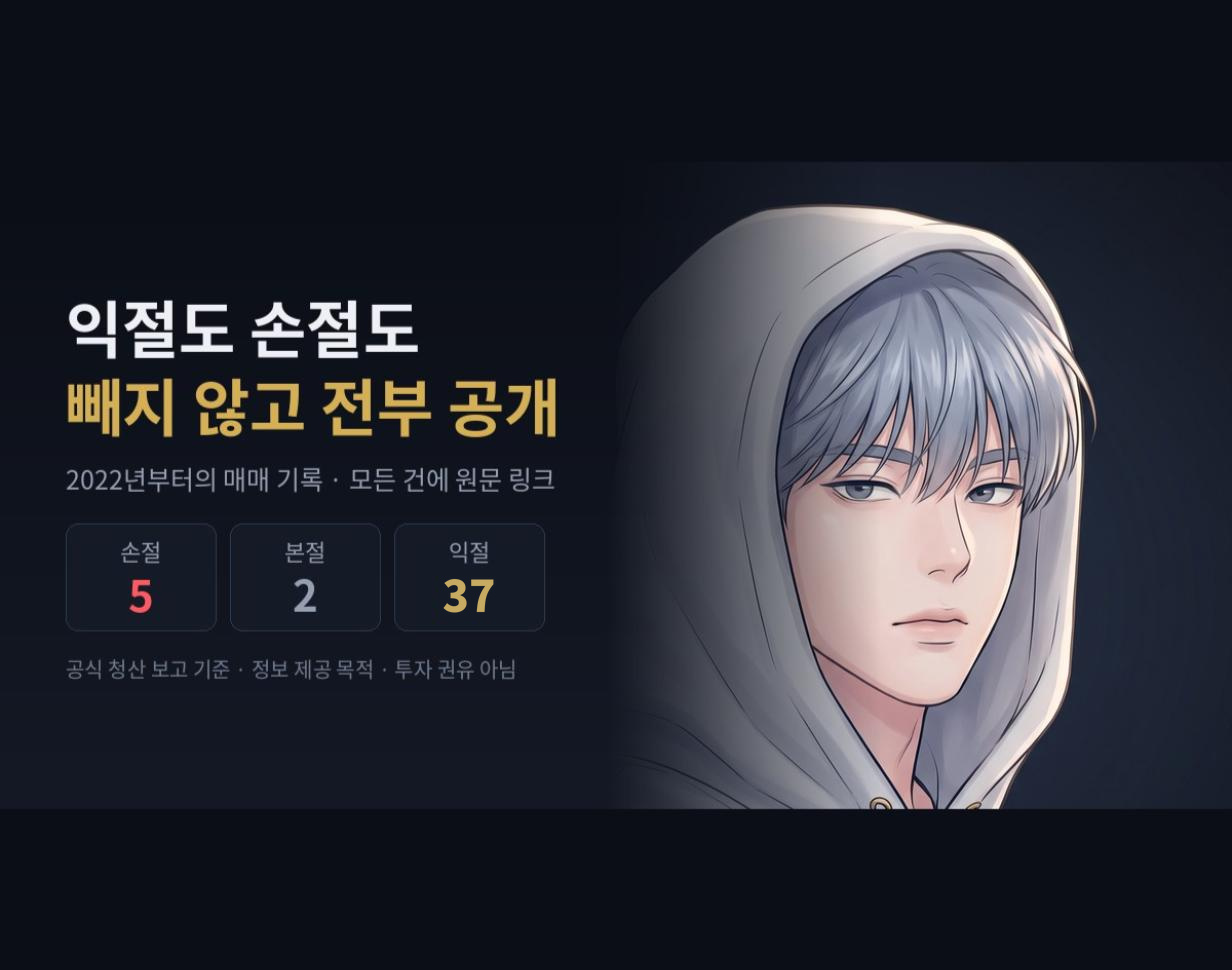
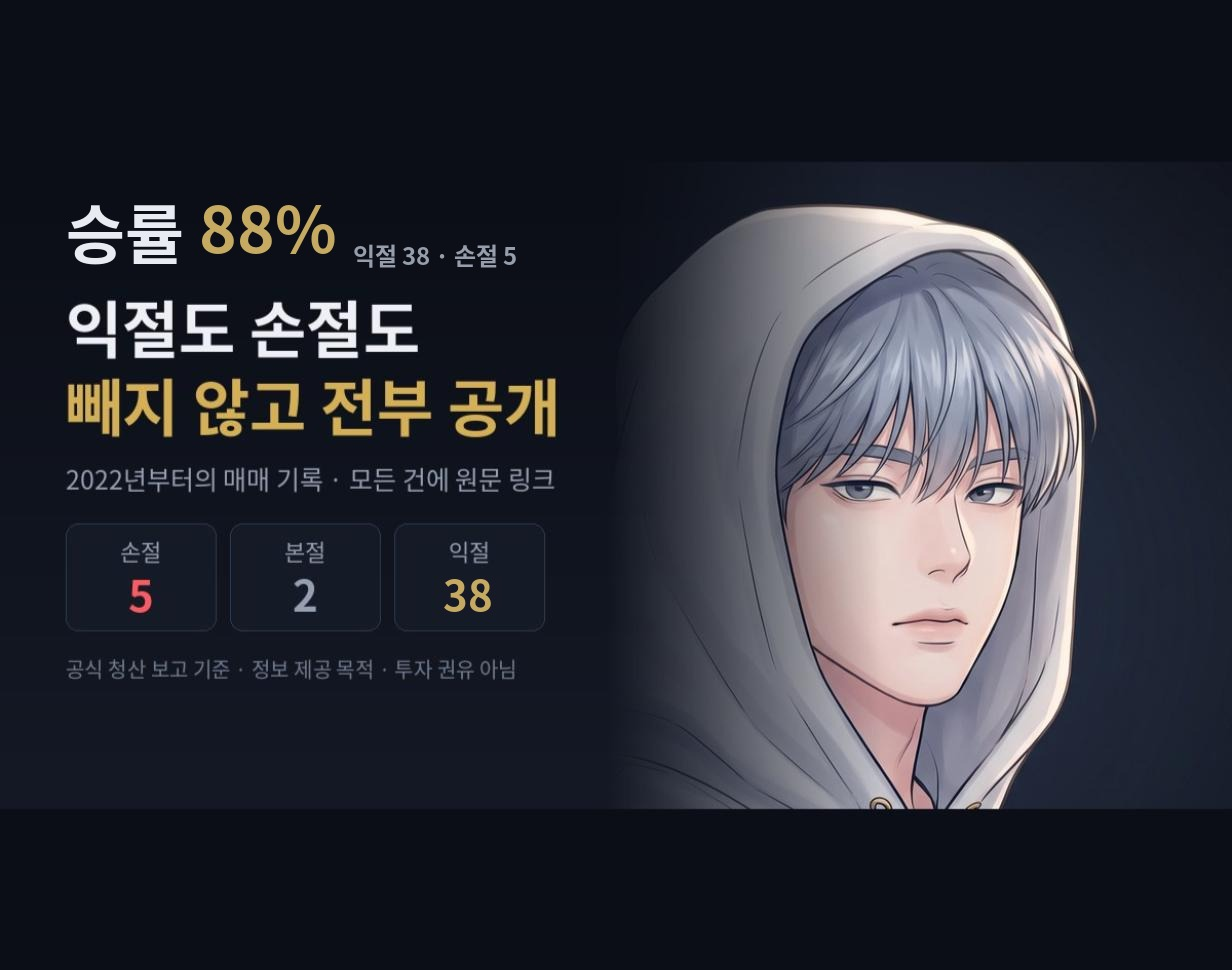
v48: 이번 주 KORU 제외·JCT 숏 두 자리(15자리 93.3%) · 연구소 BTC 롱 1차 익절 +86.04%(26건 · 익절 38) · 공유 이미지 승률 88%

Changed region(s): [[0.0617, 0.1856, 0.4318, 0.2784], [0.3701, 0.5876, 0.401, 0.6495]]

diff --git a/index.html b/index.html
@@ -5,14 +5,14 @@
 <meta name="viewport" content="width=device-width, initial-scale=1, viewport-fit=cover">
 <meta name="theme-color" content="#04070a">
 <title>춘배 매매 성적표</title>
-<meta name="description" content="승률 88% — 익절 37·손절 5 전부 공개. 회원 수익 인증 623건, 모든 기록에 텔레그램 원문 링크. 채널·채팅방·일기장 모두 무료.">
+<meta name="description" content="승률 88% — 익절 38·손절 5 전부 공개. 회원 수익 인증 623건, 모든 기록에 텔레그램 원문 링크. 채널·채팅방·일기장 모두 무료.">
   <meta property="og:type" content="website">
   <meta property="og:url" content="https://chunbae7469-a11y.github.io/chunbae-record/">
   <meta property="og:site_name" content="춘배 매매 성적표">
   <meta property="og:locale" content="ko_KR">
   <meta property="og:title" content="춘배 매매 성적표 — 익절도 손절도 전부 공개">
-  <meta property="og:description" content="2022년부터의 매매 기록. 승률 집계 기준(2024-01-23 ~ 2026-11-08) 손절 5건·본절 2건·익절 37건, 회원 수익 인증 623건. 모든 건에 텔레그램 원문 링크. 정보 제공 목적 · 투자 권유 아님.">
-  <meta property="og:image" content="https://chunbae7469-a11y.github.io/chunbae-record/og-chunbae.jpg?v=35">
+  <meta property="og:description" content="2022년부터의 매매 기록. 승률 집계 기준(2024-01-23 ~ 2026-11-08) 손절 5건·본절 2건·익절 38건, 회원 수익 인증 623건. 모든 건에 텔레그램 원문 링크. 정보 제공 목적 · 투자 권유 아님.">
+  <meta property="og:image" content="https://chunbae7469-a11y.github.io/chunbae-record/og-chunbae.jpg?v=36">
   <meta property="og:image:width" content="1232">
   <meta property="og:image:height" content="970">
   <meta name="twitter:card" content="summary_large_image">
@@ -240,8 +240,8 @@ body.has-dock .wrap{padding-bottom:96px}
 
 <div class="head" id="s-top">
   <div class="rate"><span class="big num">88%</span><span class="lb">승률</span>
-    <span class="cap">— 연구소 채널에 올린 매매 기준 (<span class="nw">2024-01-23 ~ 2026-11-08</span> 집계 · 익절 37 · 손절 5 · 본절 2)</span></div>
-  <h1>익절 <em>37</em>번, 손절 <u>5</u>번.<br>번 것도 잃은 것도 전부 여기 있습니다.</h1>
+    <span class="cap">— 연구소 채널에 올린 매매 기준 (<span class="nw">2024-01-23 ~ 2026-11-08</span> 집계 · 익절 38 · 손절 5 · 본절 2)</span></div>
+  <h1>익절 <em>38</em>번, 손절 <u>5</u>번.<br>번 것도 잃은 것도 전부 여기 있습니다.</h1>
   <p>모든 기록에 텔레그램 원문 링크가 붙고, 실시간 손익 카드와 사진 3,659장 이상이 채팅방에 그대로 쌓여 있습니다.</p>
   <div class="hcta" id="hero-cta">
     <a class="b1" href="https://t.me/chunbae74" target="_blank" rel="noopener">무료 채팅방 입장&nbsp;→</a>
@@ -266,12 +266,16 @@ body.has-dock .wrap{padding-bottom:96px}
 </div>
 <a class="wkall" href="#s-certs">회원 인증 623건 전체 보기&nbsp;↓</a>
 
-<div class="lbl"><h2>2026년 청산별 손익 — 25건</h2><span>표기 수익률 기준 · 막대 높이는 크기 비교용(비례 아님)</span></div>
-<div class="chartbox"><svg viewBox="0 0 694 152" width="100%" xmlns="http://www.w3.org/2000/svg" role="img" aria-label="2026년 청산별 손익 막대"><line x1="0" y1="94" x2="694" y2="94" stroke="#1d2b33" stroke-width="1"/><rect x="6.2" y="94.0" width="15.3" height="21.4" fill="#38a4ff"><title>2026-02-04 · -36.65%</title></rect><text class="vl dn" x="13.9" y="118.4" font-size="8.5" fill="#8fa3ab" text-anchor="middle" dominant-baseline="hanging">-37%</text><text class="ax" x="13.9" y="146" font-size="7.5" fill="#6f838b" text-anchor="middle">02-04</text><rect x="34.0" y="92.0" width="15.3" height="2.0" fill="#7c8b92"><title>2026-03-17 · 본절 ±0</title></rect><text class="ax" x="41.6" y="146" font-size="7.5" fill="#6f838b" text-anchor="middle">03-17</text><rect x="61.8" y="43.5" width="15.3" height="50.5" fill="#ff4d5e"><title>2026-04-08 · +204.03%</title></rect><text class="vl" x="69.4" y="39.5" font-size="8.5" fill="#8fa3ab" text-anchor="middle">+204%</text><text class="ax" x="69.4" y="146" font-size="7.5" fill="#6f838b" text-anchor="middle">04-08</text><rect x="89.5" y="20.8" width="15.3" height="73.2" fill="#ff4d5e"><title>2026-05-04 · +428.66%</title></rect><text class="vl big" x="97.2" y="16.8" font-size="8.5" fill="#8fa3ab" text-anchor="middle">+429%</text><text class="ax" x="97.2" y="146" font-size="7.5" fill="#6f838b" text-anchor="middle">05-04</text><rect x="117.3" y="72.1" width="15.3" height="21.9" fill="#ff4d5e"><title>2026-05-08 · +38.47%</title></rect><text class="ax" x="124.9" y="146" font-size="7.5" fill="#6f838b" text-anchor="middle">05-08</text><rect x="145.0" y="63.1" width="15.3" height="30.9" fill="#ff4d5e"><title>2026-05-13 · +76.19%</title></rect><text class="vl" x="152.7" y="59.1" font-size="8.5" fill="#8fa3ab" text-anchor="middle">+76%</text><text class="ax" x="152.7" y="146" font-size="7.5" fill="#6f838b" text-anchor="middle">05-13</text><rect x="172.8" y="43.0" width="15.3" height="51.0" fill="#ff4d5e"><title>2026-05-17 · +207.80%</title></rect><text class="vl big" x="180.4" y="39.0" font-size="8.5" fill="#8fa3ab" text-anchor="middle">+208%</text><text class="ax" x="180.4" y="146" font-size="7.5" fill="#6f838b" text-anchor="middle">05-17</text><rect x="200.6" y="94.0" width="15.3" height="23.2" fill="#38a4ff"><title>2026-06-01 · -43.09%</title></rect><text class="vl dn" x="208.2" y="120.2" font-size="8.5" fill="#8fa3ab" text-anchor="middle" dominant-baseline="hanging">-43%</text><text class="ax" x="208.2" y="146" font-size="7.5" fill="#6f838b" text-anchor="middle">06-01</text><rect x="228.3" y="14.0" width="15.3" height="80.0" fill="#ff4d5e"><title>2026-06-04 · +512.23%</title></rect><text class="vl big" x="236.0" y="10.0" font-size="8.5" fill="#8fa3ab" text-anchor="middle">+512%</text><text class="ax" x="236.0" y="146" font-size="7.5" fill="#6f838b" text-anchor="middle">06-04</text><rect x="256.1" y="49.2" width="15.3" height="44.8" fill="#ff4d5e"><title>2026-07-05 · +160.39%</title></rect><text class="vl" x="263.7" y="45.2" font-size="8.5" fill="#8fa3ab" text-anchor="middle">+160%</text><text class="ax" x="263.7" y="146" font-size="7.5" fill="#6f838b" text-anchor="middle">07-05</text><rect x="283.8" y="36.4" width="15.3" height="57.6" fill="#ff4d5e"><title>2026-07-16 · +265.73%</title></rect><text class="vl big" x="291.5" y="32.4" font-size="8.5" fill="#8fa3ab" text-anchor="middle">+266%</text><text class="ax" x="291.5" y="146" font-size="7.5" fill="#6f838b" text-anchor="middle">07-16</text><rect x="311.6" y="84.5" width="15.3" height="9.5" fill="#ff4d5e"><title>2026-08-11 · +7.21%</title></rect><text class="ax" x="319.2" y="146" font-size="7.5" fill="#6f838b" text-anchor="middle">08-11</text><rect x="339.4" y="82.1" width="15.3" height="11.9" fill="#ff4d5e"><title>2026-08-12 · +11.26%</title></rect><text class="ax" x="347.0" y="146" font-size="7.5" fill="#6f838b" text-anchor="middle">08-12</text><rect x="367.1" y="74.4" width="15.3" height="19.6" fill="#ff4d5e"><title>2026-08-12 · +30.73%</title></rect><text class="ax" x="374.8" y="146" font-size="7.5" fill="#6f838b" text-anchor="middle">08-12</text><rect x="394.9" y="29.2" width="15.3" height="64.8" fill="#ff4d5e"><title>2026-08-20 · +336.23%</title></rect><text class="vl big" x="402.5" y="25.2" font-size="8.5" fill="#8fa3ab" text-anchor="middle">+336%</text><text class="ax" x="402.5" y="146" font-size="7.5" fill="#6f838b" text-anchor="middle">08-20</text><rect x="422.6" y="77.4" width="15.3" height="16.6" fill="#ff4d5e"><title>2026-09-07 · +22% (원문 상승 표기)</title></rect><text class="ax" x="430.3" y="146" font-size="7.5" fill="#6f838b" text-anchor="middle">09-07</text><rect x="450.4" y="70.1" width="15.3" height="23.9" fill="#ff4d5e"><title>2026-09-08 · +45.70%</title></rect><text class="ax" x="458.0" y="146" font-size="7.5" fill="#6f838b" text-anchor="middle">09-08</text><rect x="478.2" y="73.5" width="15.3" height="20.5" fill="#ff4d5e"><title>2026-09-22 · +33.56%</title></rect><text class="ax" x="485.8" y="146" font-size="7.5" fill="#6f838b" text-anchor="middle">09-22</text><rect x="505.9" y="78.3" width="15.3" height="15.7" fill="#ff4d5e"><title>2026-09-22 · +19.82%</title></rect><text class="ax" x="513.6" y="146" font-size="7.5" fill="#6f838b" text-anchor="middle">09-22</text><rect x="533.7" y="71.1" width="15.3" height="22.9" fill="#ff4d5e"><title>2026-09-23 · +41.93% (한때)</title></rect><text class="ax" x="541.3" y="146" font-size="7.5" fill="#6f838b" text-anchor="middle">09-23</text><rect x="561.4" y="41.6" width="15.3" height="52.4" fill="#ff4d5e"><title>2026-09-24 · +220.13%</title></rect><text class="vl big" x="569.1" y="37.6" font-size="8.5" fill="#8fa3ab" text-anchor="middle">+220%</text><text class="ax" x="569.1" y="146" font-size="7.5" fill="#6f838b" text-anchor="middle">09-24</text><rect x="589.2" y="73.5" width="15.3" height="20.5" fill="#ff4d5e"><title>2026-09-24 · +33.57%</title></rect><text class="ax" x="596.8" y="146" font-size="7.5" fill="#6f838b" text-anchor="middle">09-24</text><rect x="617.0" y="75.6" width="15.3" height="18.4" fill="#ff4d5e"><title>2026-09-29 · +27.03%</title></rect><text class="ax" x="624.6" y="146" font-size="7.5" fill="#6f838b" text-anchor="middle">09-29</text><rect x="644.7" y="73.6" width="15.3" height="20.4" fill="#ff4d5e"><title>2026-10-02 · +33.39%</title></rect><text class="ax" x="652.4" y="146" font-size="7.5" fill="#6f838b" text-anchor="middle">10-02</text><rect x="672.5" y="64.2" width="15.3" height="29.8" fill="#ff4d5e"><title>2026-10-05 · +71% (한때 · 원문 '71% 넘게')</title></rect><text class="vl" x="680.1" y="60.2" font-size="8.5" fill="#8fa3ab" text-anchor="middle">+71%</text><text class="ax" x="680.1" y="146" font-size="7.5" fill="#6f838b" text-anchor="middle">10-05</text></svg><div class="chartcap"><span>2026-02-04</span><span>시간순 →</span><span>2026-10-05</span></div></div>
+<div class="lbl"><h2>2026년 청산별 손익 — 26건</h2><span>표기 수익률 기준 · 막대 높이는 크기 비교용(비례 아님)</span></div>
+<div class="chartbox"><svg viewBox="0 0 694 152" width="100%" xmlns="http://www.w3.org/2000/svg" role="img" aria-label="2026년 청산별 손익 막대"><line x1="0" y1="94" x2="694" y2="94" stroke="#1d2b33" stroke-width="1"/><rect x="6.0" y="94.0" width="14.7" height="21.4" fill="#38a4ff"><title>2026-02-04 · -36.65%</title></rect><text class="vl dn" x="13.4" y="118.4" font-size="8.5" fill="#8fa3ab" text-anchor="middle" dominant-baseline="hanging">-37%</text><text class="ax" x="13.4" y="146" font-size="7.5" fill="#6f838b" text-anchor="middle">02-04</text><rect x="32.7" y="92.0" width="14.7" height="2.0" fill="#7c8b92"><title>2026-03-17 · 본절 ±0</title></rect><text class="ax" x="40.0" y="146" font-size="7.5" fill="#6f838b" text-anchor="middle">03-17</text><rect x="59.4" y="43.5" width="14.7" height="50.5" fill="#ff4d5e"><title>2026-04-08 · +204.03%</title></rect><text class="vl" x="66.7" y="39.5" font-size="8.5" fill="#8fa3ab" text-anchor="middle">+204%</text><text class="ax" x="66.7" y="146" font-size="7.5" fill="#6f838b" text-anchor="middle">04-08</text><rect x="86.1" y="20.8" width="14.7" height="73.2" fill="#ff4d5e"><title>2026-05-04 · +428.66%</title></rect><text class="vl big" x="93.5" y="16.8" font-size="8.5" fill="#8fa3ab" text-anchor="middle">+429%</text><text class="ax" x="93.5" y="146" font-size="7.5" fill="#6f838b" text-anchor="middle">05-04</text><rect x="112.8" y="72.1" width="14.7" height="21.9" fill="#ff4d5e"><title>2026-05-08 · +38.47%</title></rect><text class="ax" x="120.1" y="146" font-size="7.5" fill="#6f838b" text-anchor="middle">05-08</text><rect x="139.4" y="63.1" width="14.7" height="30.9" fill="#ff4d5e"><title>2026-05-13 · +76.19%</title></rect><text class="vl" x="146.8" y="59.1" font-size="8.5" fill="#8fa3ab" text-anchor="middle">+76%</text><text class="ax" x="146.8" y="146" font-size="7.5" fill="#6f838b" text-anchor="middle">05-13</text><rect x="166.2" y="43.0" width="14.7" height="51.0" fill="#ff4d5e"><title>2026-05-17 · +207.80%</title></rect><text class="vl big" x="173.5" y="39.0" font-size="8.5" fill="#8fa3ab" text-anchor="middle">+208%</text><text class="ax" x="173.5" y="146" font-size="7.5" fill="#6f838b" text-anchor="middle">05-17</text><rect x="192.9" y="94.0" width="14.7" height="23.2" fill="#38a4ff"><title>2026-06-01 · -43.09%</title></rect><text class="vl dn" x="200.2" y="120.2" font-size="8.5" fill="#8fa3ab" text-anchor="middle" dominant-baseline="hanging">-43%</text><text class="ax" x="200.2" y="146" font-size="7.5" fill="#6f838b" text-anchor="middle">06-01</text><rect x="219.5" y="14.0" width="14.7" height="80.0" fill="#ff4d5e"><title>2026-06-04 · +512.23%</title></rect><text class="vl big" x="226.9" y="10.0" font-size="8.5" fill="#8fa3ab" text-anchor="middle">+512%</text><text class="ax" x="226.9" y="146" font-size="7.5" fill="#6f838b" text-anchor="middle">06-04</text><rect x="246.3" y="49.2" width="14.7" height="44.8" fill="#ff4d5e"><title>2026-07-05 · +160.39%</title></rect><text class="vl" x="253.6" y="45.2" font-size="8.5" fill="#8fa3ab" text-anchor="middle">+160%</text><text class="ax" x="253.6" y="146" font-size="7.5" fill="#6f838b" text-anchor="middle">07-05</text><rect x="272.9" y="36.4" width="14.7" height="57.6" fill="#ff4d5e"><title>2026-07-16 · +265.73%</title></rect><text class="vl big" x="280.3" y="32.4" font-size="8.5" fill="#8fa3ab" text-anchor="middle">+266%</text><text class="ax" x="280.3" y="146" font-size="7.5" fill="#6f838b" text-anchor="middle">07-16</text><rect x="299.6" y="84.5" width="14.7" height="9.5" fill="#ff4d5e"><title>2026-08-11 · +7.21%</title></rect><text class="ax" x="306.9" y="146" font-size="7.5" fill="#6f838b" text-anchor="middle">08-11</text><rect x="326.3" y="82.1" width="14.7" height="11.9" fill="#ff4d5e"><title>2026-08-12 · +11.26%</title></rect><text class="ax" x="333.7" y="146" font-size="7.5" fill="#6f838b" text-anchor="middle">08-12</text><rect x="353.0" y="74.4" width="14.7" height="19.6" fill="#ff4d5e"><title>2026-08-12 · +30.73%</title></rect><text class="ax" x="360.4" y="146" font-size="7.5" fill="#6f838b" text-anchor="middle">08-12</text><rect x="379.7" y="29.2" width="14.7" height="64.8" fill="#ff4d5e"><title>2026-08-20 · +336.23%</title></rect><text class="vl big" x="387.0" y="25.2" font-size="8.5" fill="#8fa3ab" text-anchor="middle">+336%</text><text class="ax" x="387.0" y="146" font-size="7.5" fill="#6f838b" text-anchor="middle">08-20</text><rect x="406.3" y="77.4" width="14.7" height="16.6" fill="#ff4d5e"><title>2026-09-07 · +22% (원문 상승 표기)</title></rect><text class="ax" x="413.8" y="146" font-size="7.5" fill="#6f838b" text-anchor="middle">09-07</text><rect x="433.1" y="70.1" width="14.7" height="23.9" fill="#ff4d5e"><title>2026-09-08 · +45.70%</title></rect><text class="ax" x="440.4" y="146" font-size="7.5" fill="#6f838b" text-anchor="middle">09-08</text><rect x="459.8" y="73.5" width="14.7" height="20.5" fill="#ff4d5e"><title>2026-09-22 · +33.56%</title></rect><text class="ax" x="467.1" y="146" font-size="7.5" fill="#6f838b" text-anchor="middle">09-22</text><rect x="486.4" y="78.3" width="14.7" height="15.7" fill="#ff4d5e"><title>2026-09-22 · +19.82%</title></rect><text class="ax" x="493.8" y="146" font-size="7.5" fill="#6f838b" text-anchor="middle">09-22</text><rect x="513.2" y="71.1" width="14.7" height="22.9" fill="#ff4d5e"><title>2026-09-23 · +41.93% (한때)</title></rect><text class="ax" x="520.5" y="146" font-size="7.5" fill="#6f838b" text-anchor="middle">09-23</text><rect x="539.8" y="41.6" width="14.7" height="52.4" fill="#ff4d5e"><title>2026-09-24 · +220.13%</title></rect><text class="vl big" x="547.2" y="37.6" font-size="8.5" fill="#8fa3ab" text-anchor="middle">+220%</text><text class="ax" x="547.2" y="146" font-size="7.5" fill="#6f838b" text-anchor="middle">09-24</text><rect x="566.5" y="73.5" width="14.7" height="20.5" fill="#ff4d5e"><title>2026-09-24 · +33.57%</title></rect><text class="ax" x="573.8" y="146" font-size="7.5" fill="#6f838b" text-anchor="middle">09-24</text><rect x="593.3" y="75.6" width="14.7" height="18.4" fill="#ff4d5e"><title>2026-09-29 · +27.03%</title></rect><text class="ax" x="600.6" y="146" font-size="7.5" fill="#6f838b" text-anchor="middle">09-29</text><rect x="619.9" y="73.6" width="14.7" height="20.4" fill="#ff4d5e"><title>2026-10-02 · +33.39%</title></rect><text class="ax" x="627.3" y="146" font-size="7.5" fill="#6f838b" text-anchor="middle">10-02</text><rect x="646.6" y="64.2" width="14.7" height="29.8" fill="#ff4d5e"><title>2026-10-05 · +71% (한때 · 원문 '71% 넘게')</title></rect><text class="vl" x="653.9" y="60.2" font-size="8.5" fill="#8fa3ab" text-anchor="middle">+71%</text><text class="ax" x="653.9" y="146" font-size="7.5" fill="#6f838b" text-anchor="middle">10-05</text><rect x="673.5" y="61.2" width="14.7" height="32.8" fill="#ff4d5e"><title>2026-11-05 · +86.04% (1차 익절)</title></rect><text class="vl" x="680.9" y="57.2" font-size="8.5" fill="#8fa3ab" text-anchor="middle">+86%</text><text class="ax" x="680.9" y="146" font-size="7.5" fill="#6f838b" text-anchor="middle">11-05</text></svg><div class="chartcap"><span>2026-02-04</span><span>시간순 →</span><span>2026-10-05</span></div></div>
 
 
-<div class="lbl" id="s-2026"><h2>2026년 공식 청산 보고 — 25건 전부</h2><span>연구소 채널에 올린 매매만 · <span class="nw">2026-11-08</span>까지 집계 · 원문 클릭 = 증거</span></div>
+<div class="lbl" id="s-2026"><h2>2026년 공식 청산 보고 — 26건 전부</h2><span>연구소 채널에 올린 매매만 · <span class="nw">2026-11-08</span>까지 집계 · 원문 클릭 = 증거</span></div>
 <div class="list">
+  <div class="it"><div class="l"><div class="d num">2026-11-05</div>
+    <div class="p"><span class="side lng">BTC 롱 20×</span><span class="num">1차 익절</span></div>
+    <div class="sub2"><span class="nw">2026-10-30</span> 채널 비트코인 매매 계획(#3442) 후 함께 잡은 매매 · 분할 매수 롱 1차 익절 · 남은 물량은 그대로 보유 · 원문 표기값</div></div>
+    <div class="r"><div class="roi up num">+86.04%</div><a class="ev" href="https://t.me/REALchunbae/3445" target="_blank">원문 보기</a></div></div>
   <div class="it"><div class="l"><div class="d num">2026-10-05</div>
     <div class="p"><span class="side lng">FET 현물 매수</span><span class="num">저항 0.2741 근접</span></div>
     <div class="sub2"><span class="nw">2026-08-21</span> FET 분석(#3246)의 쌍바닥 패턴 진행 · 핵심 저항 0.2741 바로 아래까지 상승 · 매수가 대비 한때 71% 넘게(원문 표기값) · 배율 없음 · 26년 분석 모음(#3258) '익절가 찍은 것들' 수록</div></div>
@@ -383,10 +387,10 @@ body.has-dock .wrap{padding-bottom:96px}
 <div class="wleg"><span><i class="w"></i>익절</span><span><i class="l"></i>손절</span><span><i class="z"></i>본절</span></div>
 <div class="list">
   <div class="it wk"><div class="l"><div class="d num"><span class="nw">2026-11-02 ~ 2026-11-08</span></div>
-    <div class="p"><span class="side etc">15자리</span><span class="num">익절 13 · 손절 2</span></div>
-    <div class="wbar" role="img" aria-label="익절 13, 손절 2"><i class="w" style="flex:13" title="익절 13"></i><i class="l" style="flex:2" title="손절 2"></i></div>
-    <div class="sub2">손절 KORU&nbsp;롱 · KOMA&nbsp;롱 · 진행 중 2자리 제외</div></div>
-    <div class="r"><div class="roi wr num">86.7%</div><div class="wl">승률</div><a class="ev" href="https://www.threads.com/@chunbae7469/post/DffR0e3AY8E" target="_blank">표 원문</a></div></div>
+    <div class="p"><span class="side etc">15자리</span><span class="num">익절 14 · 손절 1</span></div>
+    <div class="wbar" role="img" aria-label="익절 14, 손절 1"><i class="w" style="flex:14" title="익절 14"></i><i class="l" style="flex:1" title="손절 1"></i></div>
+    <div class="sub2">손절 KOMA&nbsp;롱 · 진행 중 2자리 제외</div></div>
+    <div class="r"><div class="roi wr num">93.3%</div><div class="wl">승률</div><a class="ev" href="https://www.threads.com/@chunbae7469/post/Dff6ktMAWDM" target="_blank">표 원문</a></div></div>
   <div class="it wk mo"><div class="l"><div class="d num"><b>2026년 10월</b> · 5주 합계 · <span class="nw">2026-09-28 ~ 2026-11-01</span></div>
     <div class="p"><span class="side etc">92자리</span><span class="num">익절 84 · 손절 8</span></div>
     <div class="wbar" role="img" aria-label="익절 84, 손절 8"><i class="w" style="flex:84" title="익절 84"></i><i class="l" style="flex:8" title="손절 8"></i></div>
@@ -400,7 +404,7 @@ body.has-dock .wrap{padding-bottom:96px}
     <details class="mwd"><summary>주별 보기 · 표 원문 3개</summary><div class="mwi"><div class="mwh"><span class="nw">2026-09-07 ~ 2026-09-13</span><span>28자리 · 익절 25 · 손절 2 · 본절 1 · <span class="nw">승률 92.6%</span></span><a class="ev" href="https://t.me/REALchunbae/3361" target="_blank">표 원문</a></div><div class="mws">손절 FLOCK&nbsp;롱 · GPRO&nbsp;롱 · 본절 FORM&nbsp;롱 · 진행 중이던 1건은 익절로 마감(종목 원문 미공개) · 표 원문 승률 92.3%(진행 중 1건 제외)</div></div><div class="mwi"><div class="mwh"><span class="nw">2026-09-14 ~ 2026-09-21</span><span>원문 표기</span><span>17자리 · 익절 14 · 손절 1 · 본절 2 · <span class="nw">승률 93.3%</span></span><a class="ev" href="https://t.me/REALchunbae/3385" target="_blank">표 원문</a></div><div class="mws">손절 LTC&nbsp;숏(마감 뒤 확정, <a href="https://t.me/REALchunbae/3391" target="_blank">#3391</a>) · 본절 SENT&nbsp;롱&nbsp;2건 · 표 원문 승률 100.0%(진행 중 1건 제외)</div></div><div class="mwi"><div class="mwh"><span class="nw">2026-09-21 ~ 2026-09-27</span><span>17자리 · 익절 15 · 손절 2 · <span class="nw">승률 88.2%</span></span><a class="ev" href="https://t.me/REALchunbae/3402" target="_blank">표 원문</a></div><div class="mws">손절 ARK&nbsp;숏 · RUNE&nbsp;롱(마감 뒤 <span class="nw">2026-09-28</span> 확정, <a href="https://t.me/REALchunbae/3405" target="_blank">#3405</a>) · 표 원문 승률 93.8%(진행 중 1건 제외)</div></div></details></div>
     <div class="r"><div class="roi wr num">91.5%</div><div class="wl">승률</div></div></div>
 </div>
-<div class="band" style="border-left-color:var(--gray)"><b>9주 합계</b> 익절 151 · 손절 15 · 본절 3이고, 본절을 빼고 센 승률은 91.0%(151/166)입니다. 표 원문 숫자만 더하면 익절 149 · 손절 13 · 본절 3 · 진행 중 6(92.0%)입니다. 진행 중이던 4건은 뒤에 익절 2건 · 손절 2건으로 끝났고, 이번 주 2건은 아직 진행 중입니다.<br>일기장 매매는 진입이 일기장에 먼저 올라가고, 연구소 채널에는 마감 글로 모아서 올라옵니다. 그래서 위 <b>공식 청산 보고</b> 승률과 합치지 않습니다. 자리별 종목과 수익률은 각 주의 표 원문에서 보실 수 있습니다.<br>달이 끝나면 그 달의 주간 마감을 한 줄로 합칩니다. 9월과 10월에 걸친 <span class="nw">2026-09-28 ~ 2026-10-04</span> 주는 7일 중 나흘이 10월이라 10월 쪽에 둡니다.</div>
+<div class="band" style="border-left-color:var(--gray)"><b>9주 합계</b> 익절 152 · 손절 14 · 본절 3이고, 본절을 빼고 센 승률은 91.6%(152/166)입니다. 표 원문 숫자만 더하면 익절 150 · 손절 12 · 본절 3 · 진행 중 6(92.6%)입니다. 진행 중이던 4건은 뒤에 익절 2건 · 손절 2건으로 끝났고, 이번 주 2건은 아직 진행 중입니다.<br>일기장 매매는 진입이 일기장에 먼저 올라가고, 연구소 채널에는 마감 글로 모아서 올라옵니다. 그래서 위 <b>공식 청산 보고</b> 승률과 합치지 않습니다. 자리별 종목과 수익률은 각 주의 표 원문에서 보실 수 있습니다.<br>달이 끝나면 그 달의 주간 마감을 한 줄로 합칩니다. 9월과 10월에 걸친 <span class="nw">2026-09-28 ~ 2026-10-04</span> 주는 7일 중 나흘이 10월이라 10월 쪽에 둡니다.</div>
 
 <div class="lbl" id="s-certs"><h2>회원들의 수익 인증 — 623건</h2><span>12장씩 넘겨 보기 · 수익률순·최신순 전환 · 채널·채팅방 전수 조사 · 제 성적과 섞지 않습니다</span></div>
 <div class="cards" id="cards-certs">
